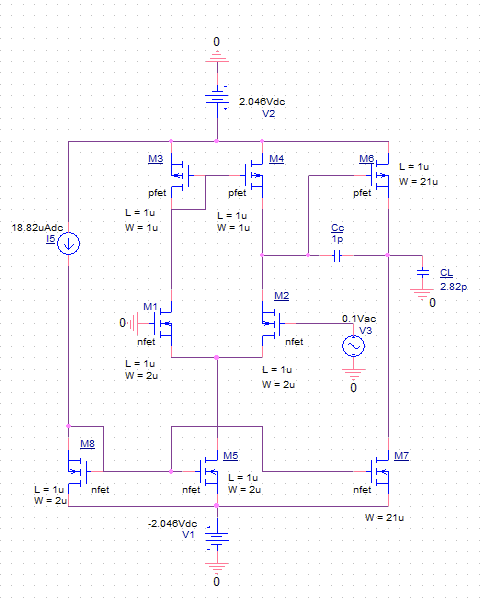
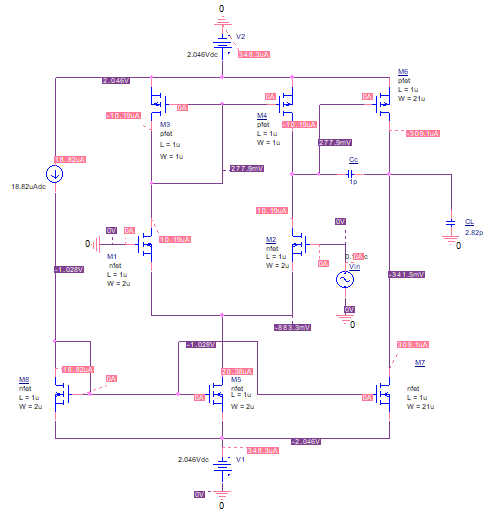
Finished slew rate. Start tuning

Changed region(s): [[0.0308, 0.0, 1.0, 0.9922], [0.2156, 0.124, 0.2772, 0.186], [0.4928, 0.093, 0.5544, 0.124]]

diff --git a/report/report.tex b/report/report.tex
@@ -43,19 +43,19 @@
 	\hline
 	Προδιαγραφές & AEM=9282  \\
 	\hline
-	\textbf{CL} & 724 \\
+	\textbf{CL} & 2.82 (pF) \\
 	\hline
-	\textbf{SR} & >709 \\
+	\textbf{SR} &  18.82 (V/μs)\\
 	\hline
-	\textbf{Vdd} & 778 \\
+	\textbf{Vdd} & 2.046 (V) \\
 	\hline
-	\textbf{Vss} & -493 \\
+	\textbf{Vss} & -2.046 (V)\\
 	\hline
-	\textbf{GB} & >493 \\
+	\textbf{GB} & 7.82 (MHz)\\
     \hline
-    \textbf{A} & ?493 \\
+    \textbf{A} & 20.82 (dB)\\
     \hline
-    \textbf{P} & 493 \\
+    \textbf{P} & 50.82 (mW)\\
     \hline
 \end{tabular}
 %\caption{}
@@ -109,7 +109,7 @@
 
 \section{Προσομοίωση SPICE}
 
-Χρησιμοποιήσαμε για NMOS και PMOS τα μοντέλα mbreakN3 και mbreakP3 αντίστοιχα ($V_{SB} = 0$).
+Χρησιμοποιήσαμε για NMOS και PMOS τα μοντέλα mbreakN3 και mbreakP3 αντίστοιχα ($V_{SB} = 0$) και θέσαμε τις απαιτούμενες τιμές του κυκλώματος με αυτές του αλγρορίθμου. Μια πρώτη παρατήρηση σχετικά με τα ρεύματα είναι ότι $I_1 = I_2 = I_3 = I_4 = 10.19 \approx I_{ref}/2 = 9.94u$, η τιμής του αλγορίθμου. Βέβαια έχουμε μεγάλη απόκλιση για τα $I_6 = I_7 \approx 300u$, $50\%$ αύξηση. Θεωρούμε ότι ο αλγόριθμος μας είναι σωστός και συνεχίζουμε να δούμε αν καλύπτονται οι προδιαγραφές ή κατα πόσο αποκλίνουν.
 
 \begin{figure}[h!]
 	\centering
@@ -119,10 +119,80 @@
 
 \subsection{Έλεγχος προδιαγραφών}
 
-Για να βρούμε το κέρδος τάσης και το εύρος κέρδους, κάνουμε AC sweep βάζοντας τον marker στην έξοδο, αλλά εμείς θέλουμε λόγο εξόδου με εισόδου, οπότε ο marker όμως δεν δείχνει μόνο τάση εξόδου εκεί που τον έβαλες; Άρα ίσως και να μην θέλει marker και έπειτα να βάλεις trace Ι guess. Προσθέτουμε και την γωνία του κέρδους για να αποφανθούμε σχετικά με το περιθώριο φάσης.
+Για τις ακόλουθες δύο προδιαγραφές κάνουμε AC sweep και προσθέτουμε τα κατάλληλα traces.
 
+\subsubsection{A και GB}
+
+\begin{figure}[h!]
+	\centering
+	\includegraphics[width = \textwidth, height = .25\textheight, keepaspectratio]{assets/gain_GB.png}
+	%\caption{Κύκλωμα προσομοίωσης τελεστικού ενισχυτή}
+\end{figure}
+
+Βλέπουμε ότι έχουμε total dc gain ίσο με 24dB (327.21), το οποίο αποκίνει απο την θεωρητική τιμή (50dB), ωστόσο είναι πάνω απο την προδιαγραφή των 20.82dB.
+
+Για να υπολογίσουμε το GB, βρίσκουμε την συχνότητα για την οποία το κέρδος έχει μειωθεί κατα 3dB. 'Οπως φαίνεται και απο το Probe Cursor, η τιμή της συχνότητας που αντιστοιχεί στα 21 dB είναι 363ΚHz. Συνεπώς:
+
+\[  GB = \abs{A} \cdot f_H = 326.21 \cdot 363KHz \approx 118 > 7.82 MHz \]
+
+Πληρείται δηλαδή και η προδιαγραφή για το Gain Bandwidth.
+
+\subsubsection{Περιθώριο φάσης}
+
+\begin{figure}[h!]
+	\centering
+	\includegraphics[width = \textwidth, height = .25\textheight, keepaspectratio]{assets/phase_margin.png}
+	%\caption{Κύκλωμα προσομοίωσης τελεστικού ενισχυτή}
+\end{figure}
+
+Βλέπουμε ότι για 0 dB κέρδους, η τιμή της φάσης αντιστοιχεί σε $-99^o$. Οπότε έχουμε περιθώριο φάσης $180 - 99 = 91^ο$. Θα προσπαθήσουμε στη συνέχεια να το φτάσουμε κοντά στο 60. 
+
+\subsubsection{Slew rate}
+
+Μετατρέπουμε την συνδεσμολογία σε συνδεσμολογία μοναδιαίου κέρδους βραχυκυκλώνοντας την αναστρέφουσα είσοδο με την έξοδο. Αλλάζουμε και την πηγή και έχουμε ως είσοδο τετραγωνικούς παλμούς διάρκειας δες τοπικ 2018 και 2017 για τους χρόνους και τα σχετικά.
+
+
+
+\begin{figure}[h!]
+     \begin{subfigure}[b]{0.5\textwidth}
+         \centering
+         \includegraphics[height=.4\textheight, width=\textwidth, keepaspectratio]{assets/slew_rate_circuit.png}
+    \caption{V3 binary search}
+     \end{subfigure}
+     \begin{subfigure}[b]{0.5\textwidth}
+         \centering
+         \includegraphics[height=.4\textheight, width=\textwidth, keepaspectratio]{assets/slew_rate.png}
+         \caption{V4 linear search} 
+     \end{subfigure}
+\end{figure}
+
+Βρίσκουμε $18.441  \approx 18.82 MV/sec (V/μs)$. Δηλαδή για πολύ λίγο δεν πιάνουμε την προδιαγραφή.
 
 \section{Tuning}
 
+Όπως είδαμε προηφουμένως, οι τιμές για το περιθώριο φάσης και του ρυθμού ανόδου (slew rate) δεν ικανοποιούν τις προδιαγραφές. Παράλληλα θα προσπαθήσουμε να ενισχύσουμε και το κέρδος τάσης. Με βάση το ακόλουθο πινακάκι και παραμετρικές αναλύσεις καταλήξαμε στα εξής:
+
+\begin{figure}[h!]
+	\centering
+	\includegraphics[width = \textwidth, height = .2\textheight, keepaspectratio]{assets/tuning_table.png}
+	%\caption{Κύκλωμα προσομοίωσης τελεστικού ενισχυτή}
+\end{figure}
+
+\subsection{Α και GB}
+
+\subsection{Phase margin}
+
+\subsection{Slew rate}
+
+
+%Μάλλον το ΑΕΜ και  η προσεκτική γραφή του αλγορίθμου, συνυπολογίζοντας συνθήκες όπως $g_{m6} \geq 10 \cdot g_{m1}$ και στρογγυλοποιώντας τους λόγους, οδηγηθήκαμε στο να μην χρειάζεται να κάνουμε tuning. Ωστόσο αξίζει να σημειωθεί ότι υπάρχει ένα πολύ βοηθητικό πινακάκι το οποίο ενδεχομένως θα μπορούσαμε να το χρησιμοποιήσουμε για να μεταβάλλουμε τις τιμές. Ενδεικτικά θα προσπαθήσουμε για παράδειγμα να αυξηθεί το κέρδος. 
+
+%Φυσικά στο tuning θα πρέπει να μεταβάλουμε τα W με προσεκτικό τρόπο και να μην ξεχνάμε ότι υπάρχουν καθρέπτες ρεύματος για τους οποίους οι λόγοι θα πρέπει να είναι ταιριασμένοι.
+
+\section{Παραμετρική ανάλυση θερμοκρασίας}
+
+Απο 0-70.
+
+\subsection{Πηγή widlar}
 
 \end{document}

diff --git a/opamp_algorithm.m b/opamp_algorithm.m
@@ -127,11 +127,13 @@ I7 = I6;
 Av = (2*gm2*gm6)/(I5*(Ln + Lp) * I6*(Ln + Lp));
 Pd = (I5 + I6)*(Vdd + abs(Vss));
 
-fprintf("Gain: %f\nGoal: %f\n", Av, A);
+fprintf("Gain: %f, %fdB\nGoal: %f\n", Av, mag2db(Av), A);
+fprintf("Power dissipation: %f. Goal: %f\n", Pd*1e3, P);
+
 if (mag2db(Av) < A)
     fprintf("You need to increase the gain\n");
 elseif (Pd *1e3 > P)
-    fprintf("Power dissipation: %f. Goal: %f\nYou need to decrease the power dissipation\n", Pd, P);
+    fprintf("You need to decrease the power dissipation\n");
 end
 
 %um
